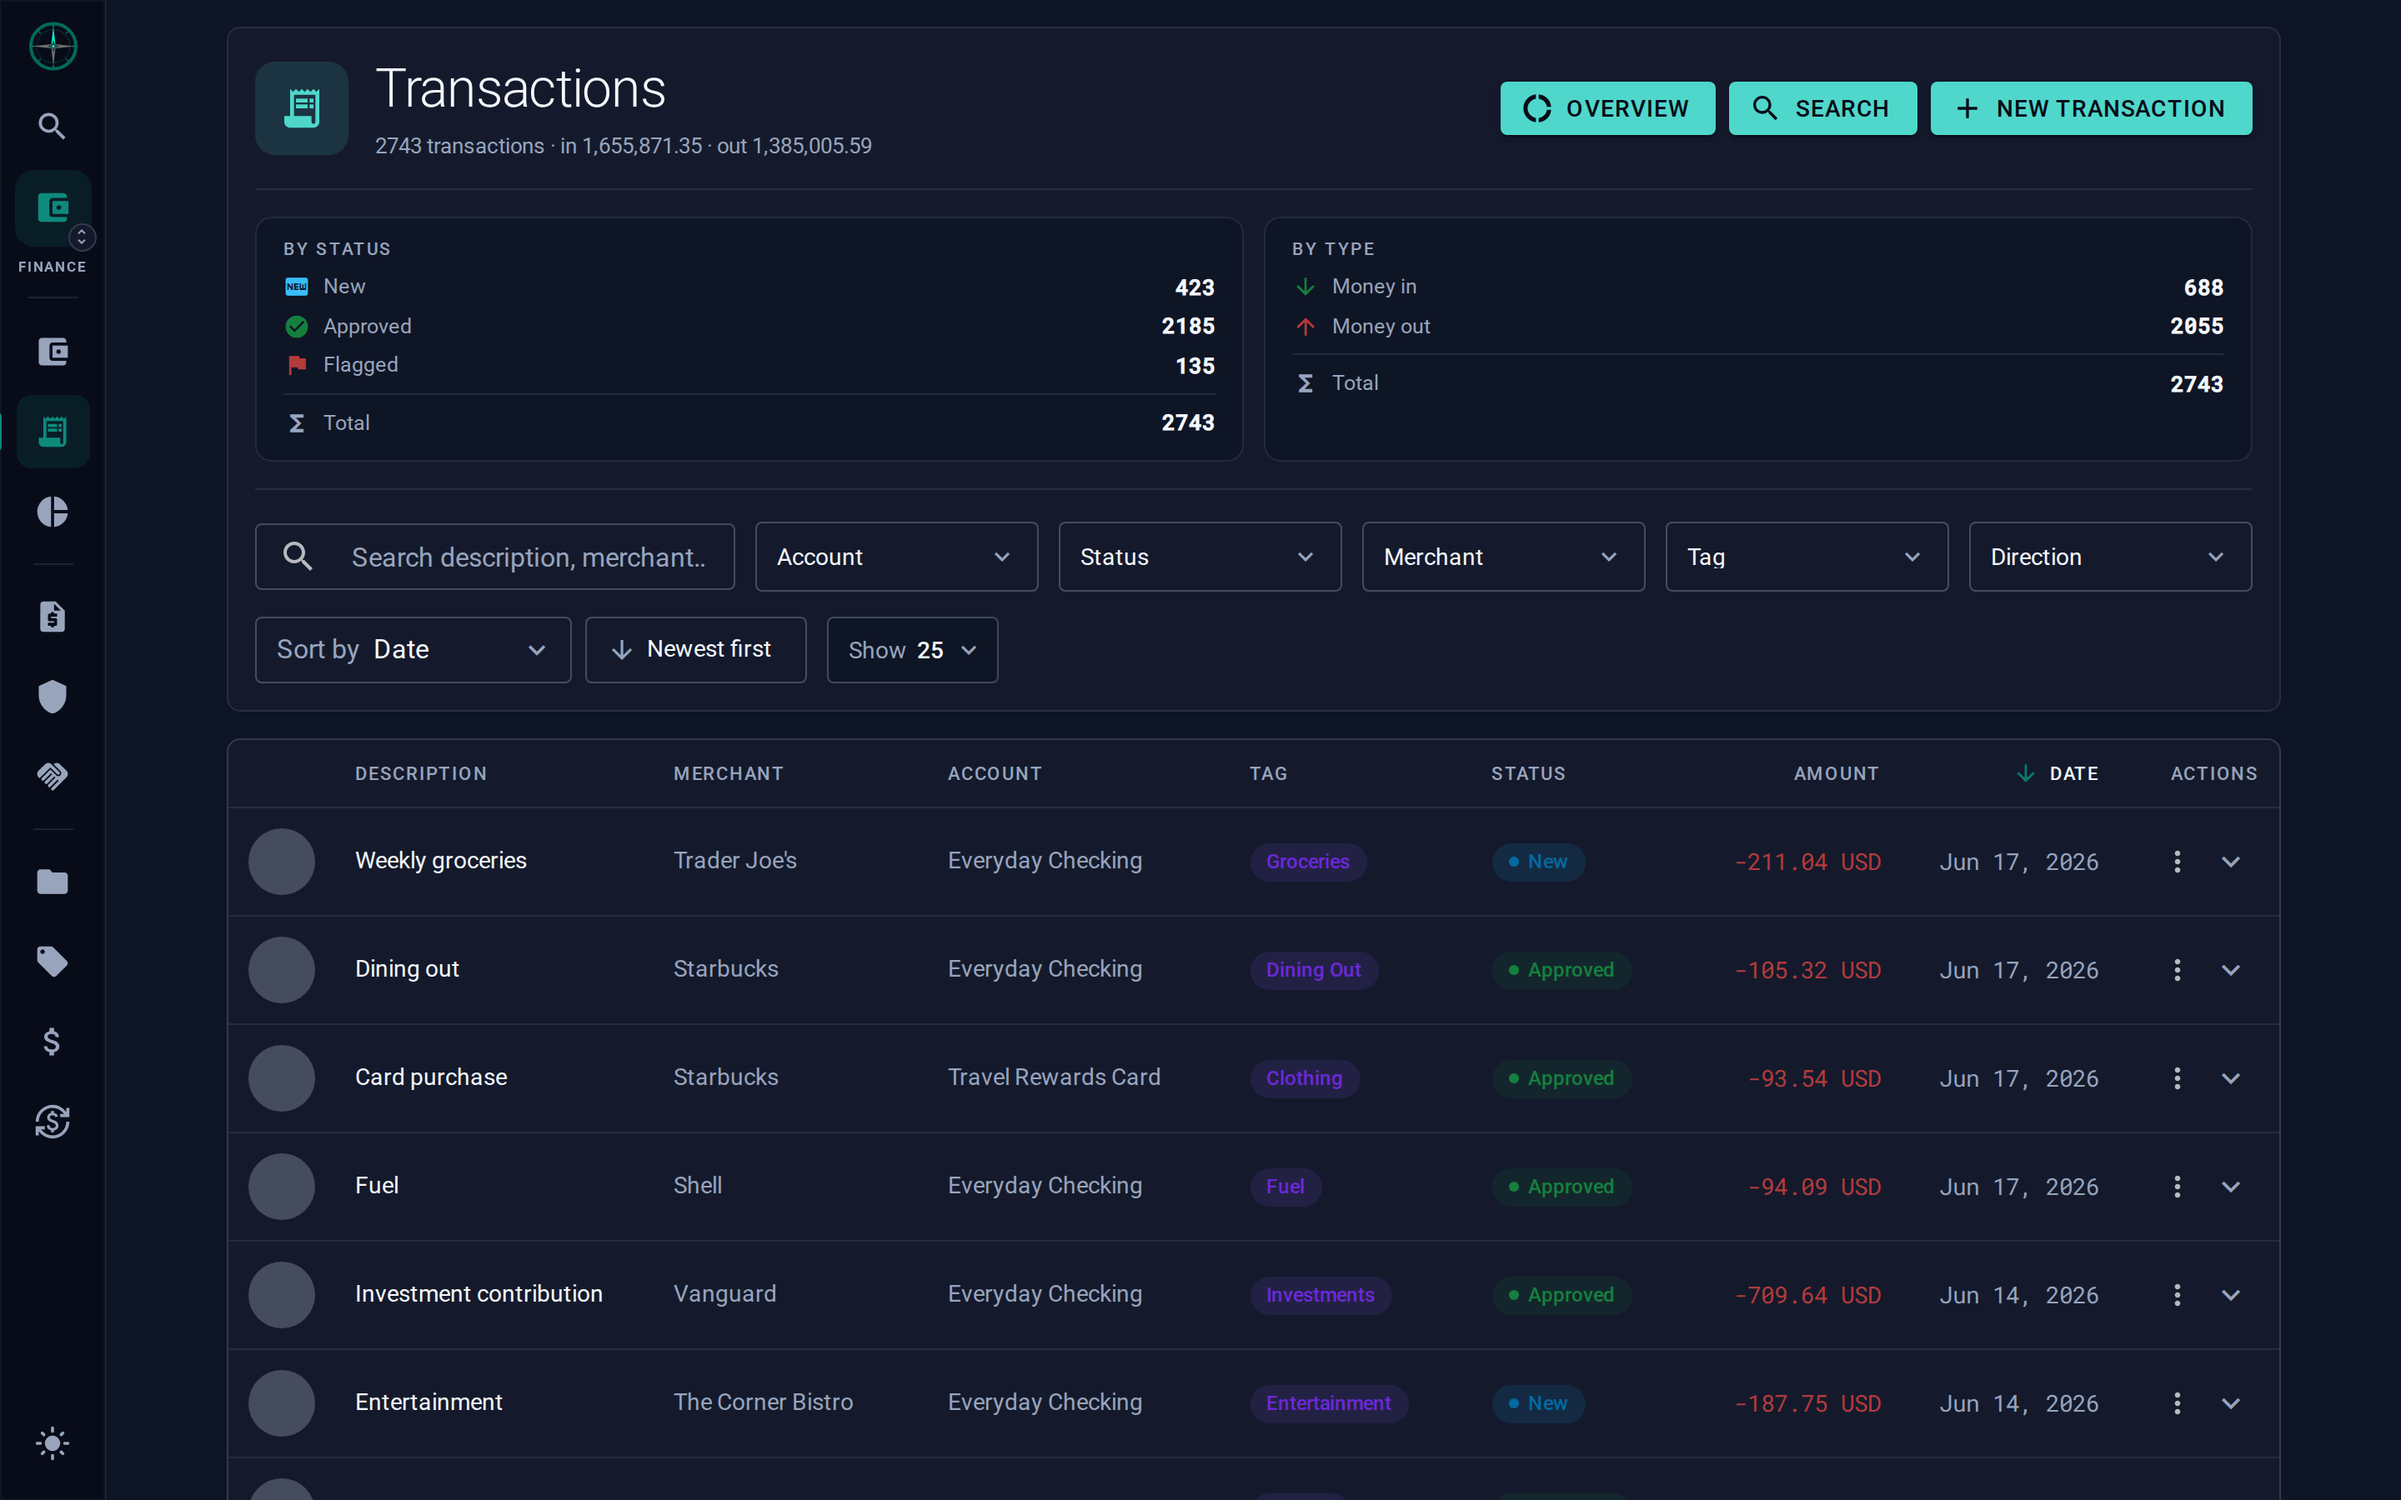
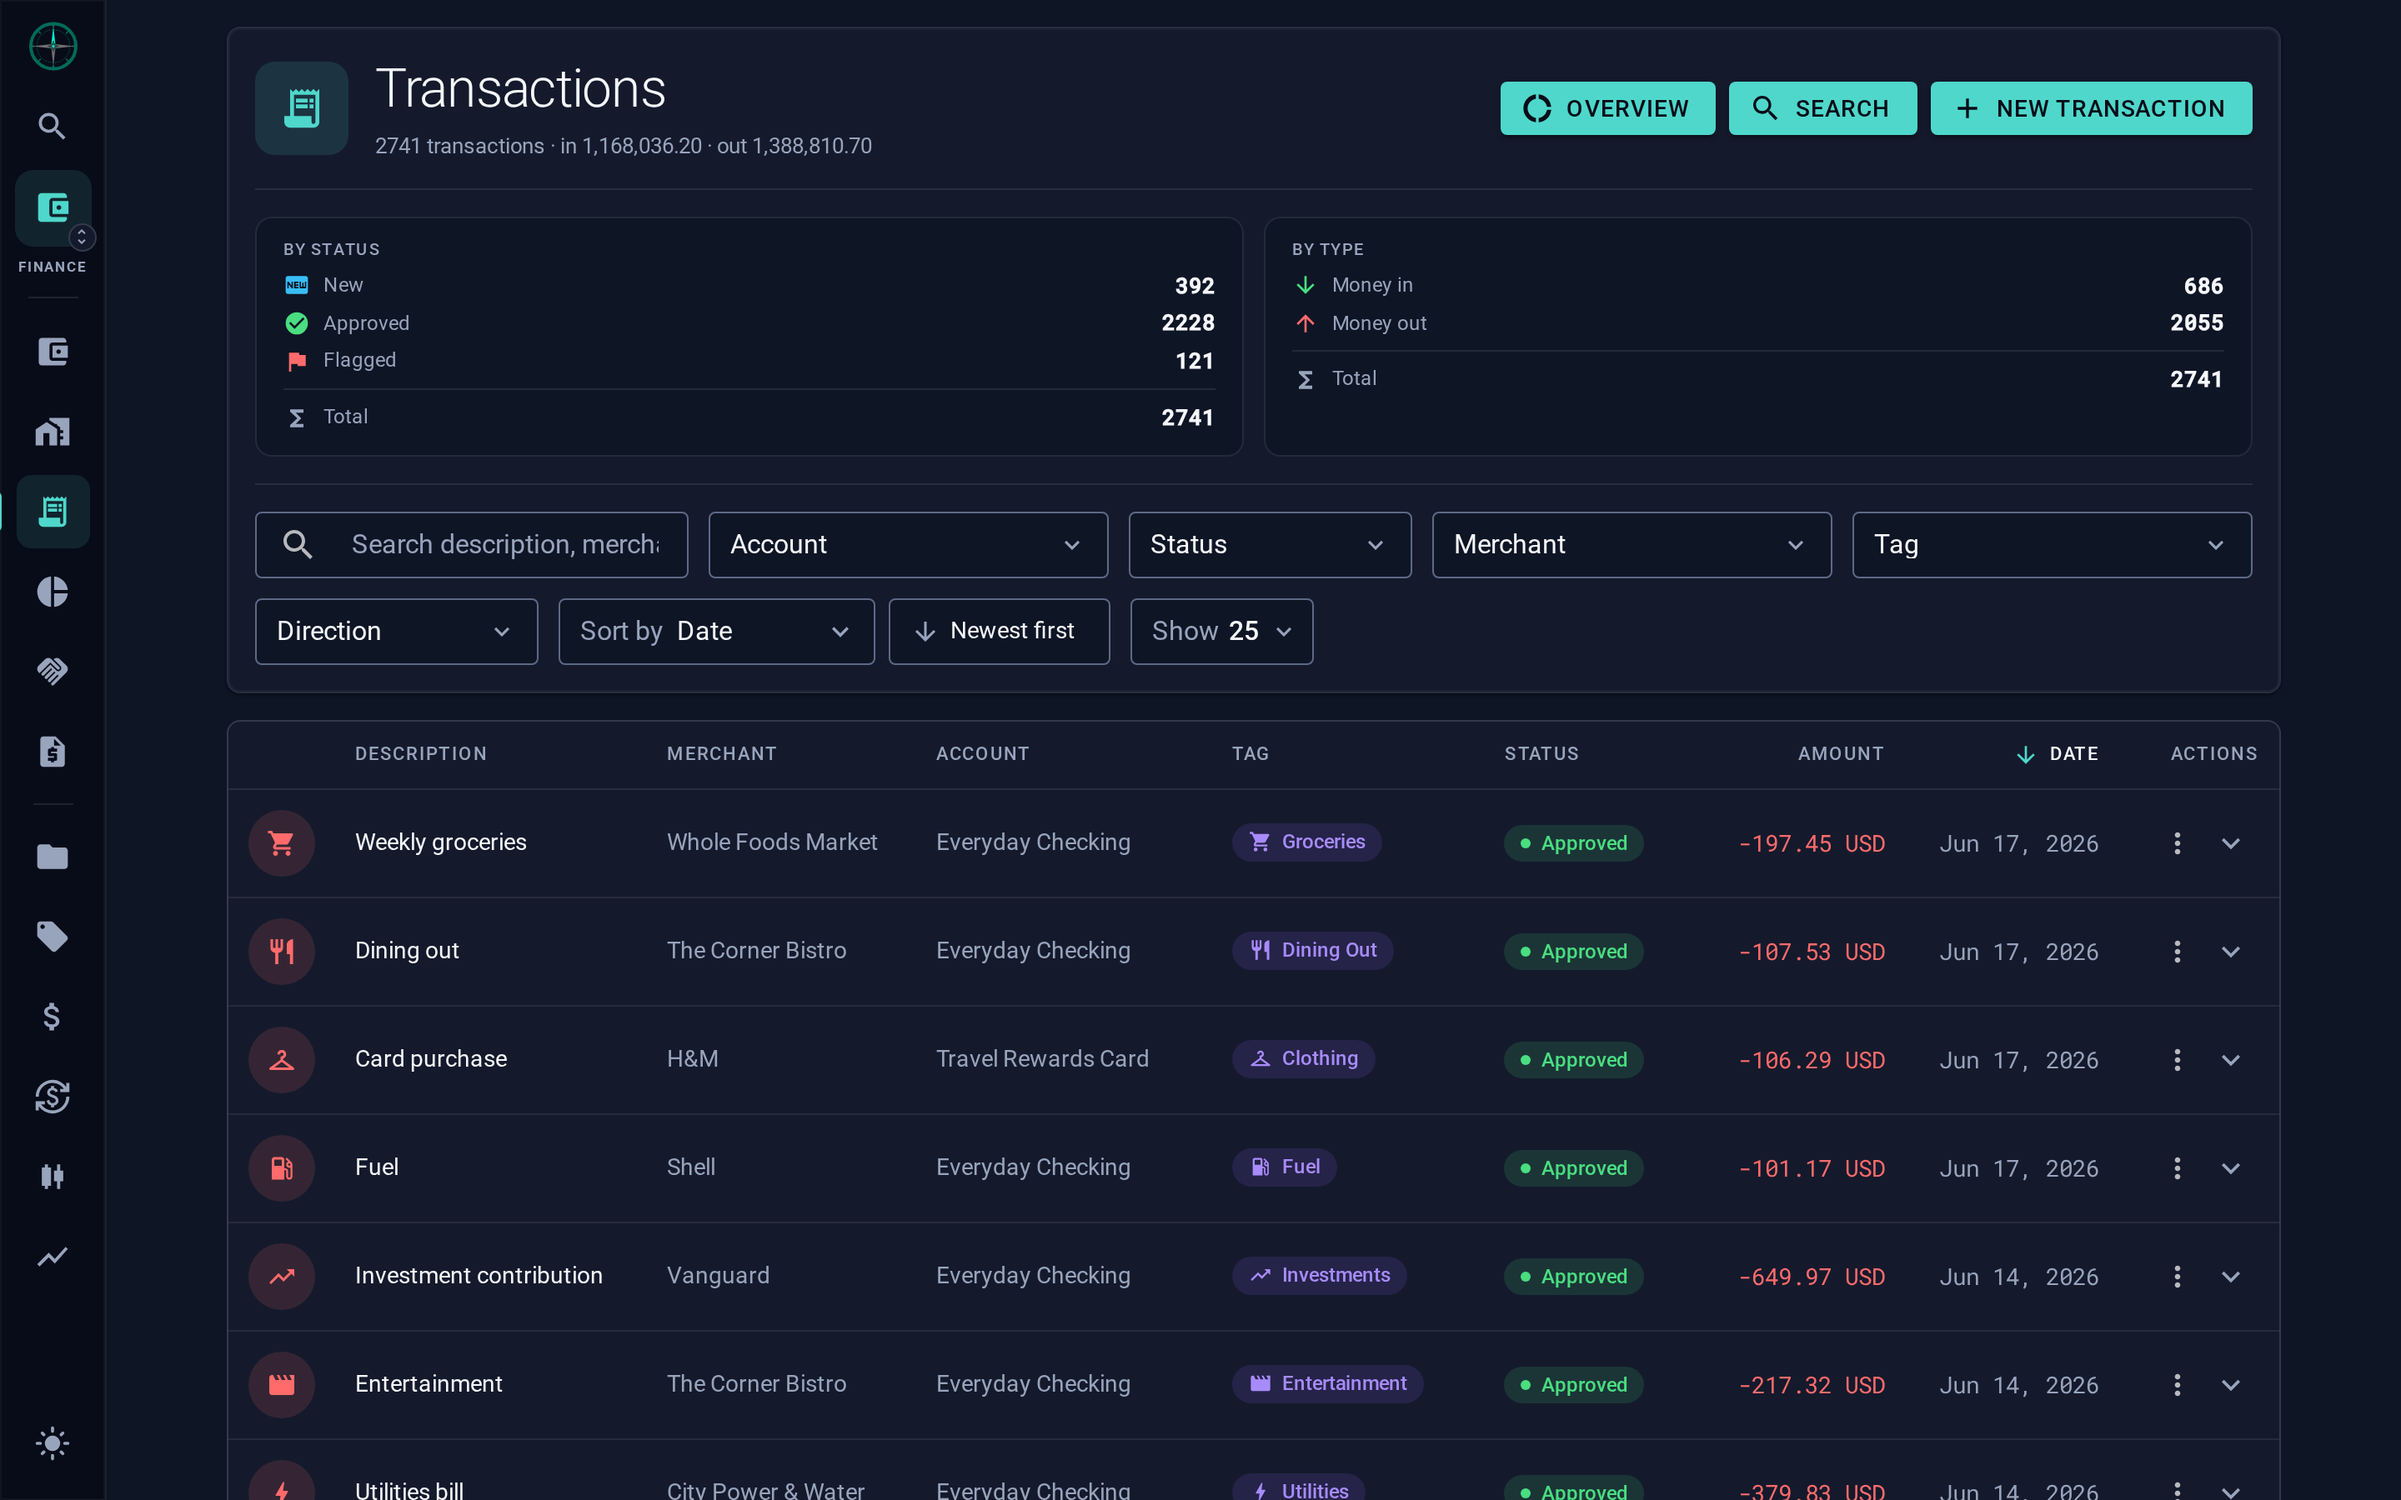
docs: retake the readme screenshots on the current demo seed
The images predated #218 (a residence account that is now a property)
and several page changes. All seven are retaken at the same framing
(1440x900 at 2x, dark theme, signed in as the demo Owner) with the
repo's capture script, and the alt text describes what is now in frame
without restating demo counts or amounts. The capture script's contracts
toggle is renamed "Attention" to match the page.

Claude-Session: https://claude.ai/code/session_01RpswP7n46bSNRy79r737D2

diff --git a/README.md b/README.md
@@ -66,9 +66,7 @@ your own infrastructure.
 The Finance module, running against the deterministic demo seed — the figures, names and
 addresses below are synthetic.
 
-![The Odyssey dashboard in dark theme: a greeting header with the net-worth total, a teal
-net-worth area chart over the years of seeded history, and a recent-transactions table listing
-purchases with their tags, statuses, amounts and dates.](docs/images/dashboard.png)
+![The dashboard greets the signed-in user with total net worth, then shows a notice about a property without an estimate, a weather panel and the quarterly net-worth chart.](docs/images/dashboard.png)
 
 **Dashboard** — net worth across every account, with the most recent transactions underneath.
 
@@ -76,9 +74,7 @@ purchases with their tags, statuses, amounts and dates.](docs/images/dashboard.p
 <tr>
 <td width="50%">
 
-![The Accounts page with its overview panel open: two donut charts, "Asset allocation" and
-"Liabilities", each with a legend ranking accounts by their share of the
-total.](docs/images/accounts.png)
+![The Accounts page shows donut charts of asset and liability allocation with per-account balances, above summaries by account type and status.](docs/images/accounts.png)
 
 **Accounts** — asset and liability allocation across the portfolio, with per-type and
 per-status rollups.
@@ -86,10 +82,7 @@ per-status rollups.
 </td>
 <td width="50%">
 
-![The Transactions page with its overview and filter regions open: status and direction
-breakdown tiles above a search box and account, status, merchant, tag and direction filters,
-over a paged table of transactions showing description, merchant, account, tag, status,
-amount and date.](docs/images/transactions.png)
+![The Transactions page shows status and type summaries, filter and sort controls, and a list of transactions with merchant, account, tag, status, amount and date.](docs/images/transactions.png)
 
 **Transactions** — server-paged, searchable, and filterable by account, status, tag and
 direction.
@@ -99,9 +92,7 @@ direction.
 <tr>
 <td width="50%">
 
-![An expanded budget record, "Household Budget 2026", showing its period, base currency and
-status, then two donut charts breaking planned income and planned expenses down by
-tag.](docs/images/budgets.png)
+![An expanded budget shows its period, currency, status, expected and actual balance and description, with donut charts comparing planned and actual income.](docs/images/budgets.png)
 
 **Budgets** — a year's planned income and expenses broken down by tag, reported against
 actual spend.
@@ -109,10 +100,7 @@ actual spend.
 </td>
 <td width="50%">
 
-![An expanded tax statement, "Tax Year 2025", flagged with the warning "Declared net worth
-diverges from derived balances — review before approval", above a table comparing declared
-figures with Odyssey-derived ones, with the variance highlighted in
-amber.](docs/images/tax-reconciliation.png)
+![An expanded tax statement flagged for review shows its filing details, tax-payment, income and settlement tag totals, and the start of a table comparing declared figures with Odyssey-derived ones.](docs/images/tax-reconciliation.png)
 
 **Tax reconciliation** — declared figures against the ones Odyssey derives from your
 accounts and tags, with every variance called out.
@@ -122,10 +110,7 @@ accounts and tags, with every variance called out.
 <tr>
 <td width="50%">
 
-![The Contracts page with its upcoming and overview regions open: an amber awaiting-signature
-alert and a paused-contract notice, then the next charges and receipts falling due, monthly
-and yearly run-rate tiles for money out and money in, and counts by contract type and
-status.](docs/images/contracts.png)
+![The Contracts page lists contracts ending soon, awaiting signature or paused, then the upcoming contract charges and receipts, above monthly and yearly run-rate totals.](docs/images/contracts.png)
 
 **Contracts** — agreements with their parties and terms, a monthly and yearly run rate, and
 what is charged next.
@@ -133,9 +118,7 @@ what is charged next.
 </td>
 <td width="50%">
 
-![The Contacts page with its overview region open: counts of active and archived contacts
-and a split by person and organization, then a filter bar and the first record cards, people
-and organizations among them.](docs/images/contacts.png)
+![The Contacts page shows contact counts by type and status, search and sort controls, and a list of people and organizations with their status.](docs/images/contacts.png)
 
 **Contacts** — people and organisations shared across finance and journal, each linkable as a
 counterparty, custodian or contract party.
